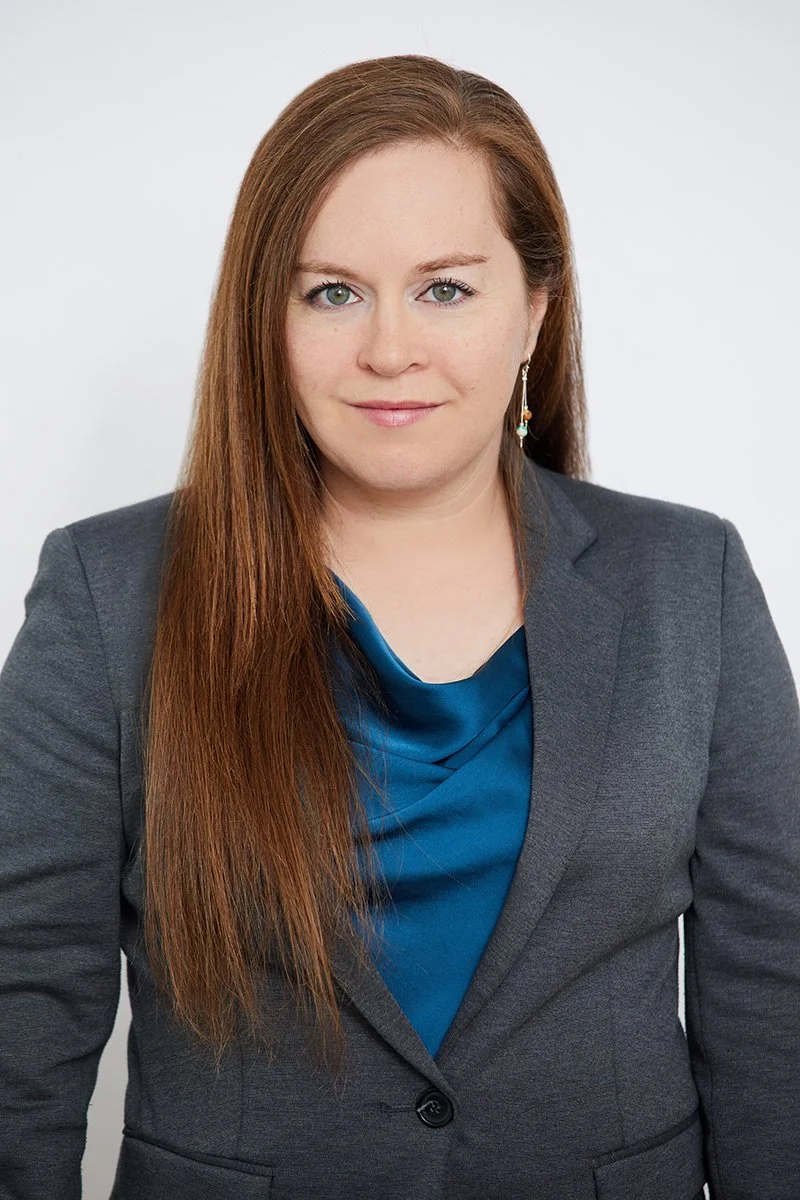
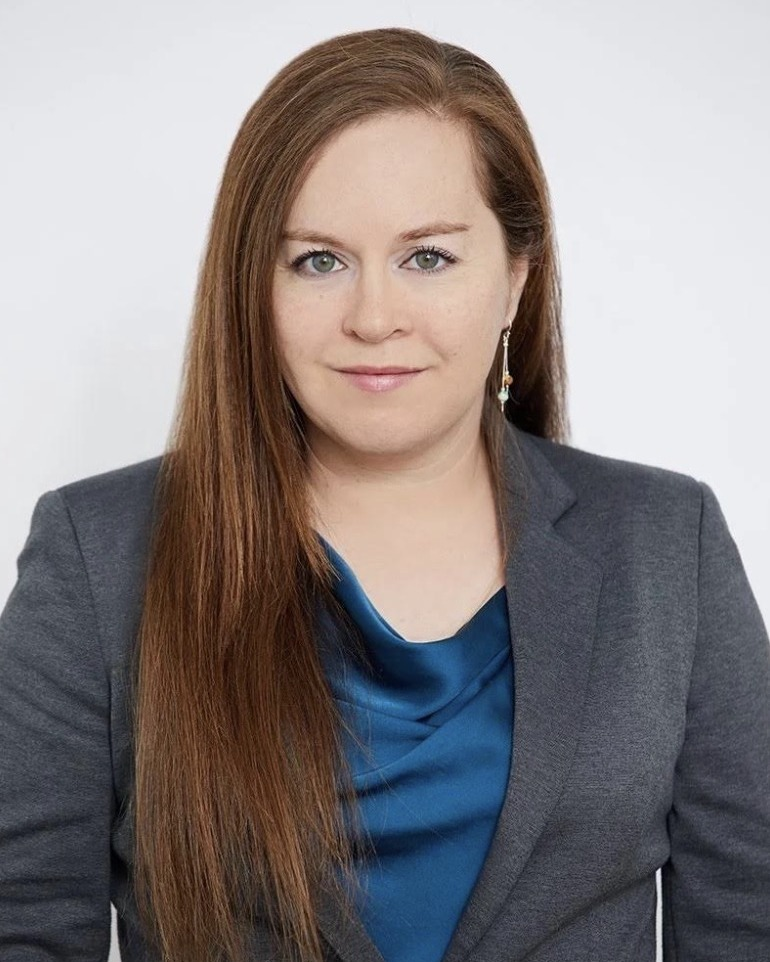
Fix Katherine name mix-up, add Brandon's and Aldin's photos, resize card names, recrop headshots for headroom
- Split the mistakenly-merged photo into a new Katherine Su O'Connor entry, and added Katherine C. Aldin's correct photo
- Added Brandon Johnson's photo
- Attorney card names now use text-lg instead of text-xl
- Recropped Drorit, Clarissa, and Mark's headshots to 4:5 so the top of the head isn't cut off

diff --git a/src/data/attorneys.ts b/src/data/attorneys.ts
@@ -10,7 +10,9 @@ import patrickDecarolis from "../assets/attorneys/patrick-decarolis.jpg";
 import clarissaLopez from "../assets/attorneys/clarissa-lopez.webp";
 import carlyTimmBijold from "../assets/attorneys/carly-timm-bijold.png";
 import howardPosner from "../assets/attorneys/howard-posner.jpg";
+import katherineSuOconnor from "../assets/attorneys/katherine-su-oconnor.png";
 import katherineCAldin from "../assets/attorneys/katherine-c-aldin.png";
+import brandonJohnson from "../assets/attorneys/brandon-johnson.png";
 
 export type Attorney = {
   slug: string;
@@ -331,6 +333,7 @@ export const attorneys: Attorney[] = [
     name: "Brandon Johnson, Esq.",
     title: "Associate Attorney",
     group: "Associates",
+    photo: brandonJohnson,
     summary: "Associate Attorney at Kaplan Trope Gekht & DeCarolis.",
     sections: [
       {
@@ -345,6 +348,20 @@ export const attorneys: Attorney[] = [
     title: "Of Counsel",
     group: "Of Counsel",
     photo: katherineCAldin,
+    summary: "Of Counsel at Kaplan Trope Gekht & DeCarolis.",
+    sections: [
+      {
+        heading: "Full biography coming soon",
+        body: "A detailed profile for this attorney is being prepared and will be added shortly.",
+      },
+    ],
+  },
+  {
+    slug: "katherine-su-oconnor",
+    name: "Katherine Su O’Connor, Esq.",
+    title: "Of Counsel",
+    group: "Of Counsel",
+    photo: katherineSuOconnor,
     summary: "Of Counsel at Kaplan Trope Gekht & DeCarolis.",
     sections: [
       {

diff --git a/src/components/AttorneyCard.tsx b/src/components/AttorneyCard.tsx
@@ -40,7 +40,7 @@ export default function AttorneyCard({
 
       <div className="pt-4">
         <Link to={`/${attorney.slug}`}>
-          <p className="font-serif text-xl text-navy group-hover:underline">
+          <p className="font-serif text-lg text-navy group-hover:underline">
             {attorney.name}
           </p>
         </Link>
